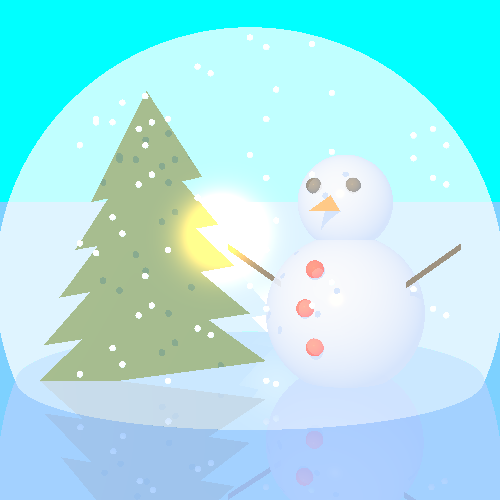
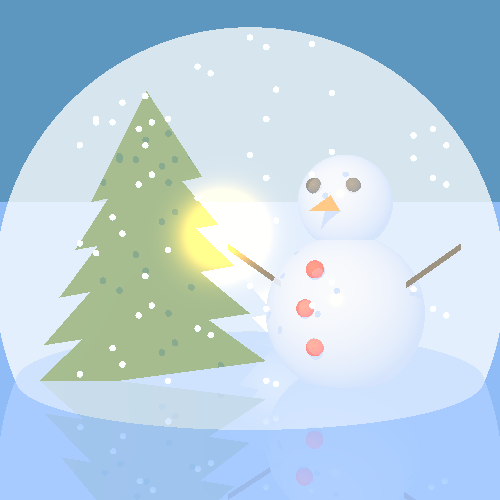
update pic

diff --git a/unittests/finalImages/imageLevel7Tests.java b/unittests/finalImages/imageLevel7Tests.java
@@ -30,8 +30,7 @@ public class imageLevel7Tests {
                 .setVpSize(150, 150).setVpDistance(1000);
 
 
-        scene.background = new Color(java.awt.Color.CYAN);
-
+        scene.background = new Color(93, 151, 191);
         scene.geometries.add( //
                 new Sphere(25, new Point(30, -20, -50)) //
                         .setEmission(new Color(155, 182, 224)) //
